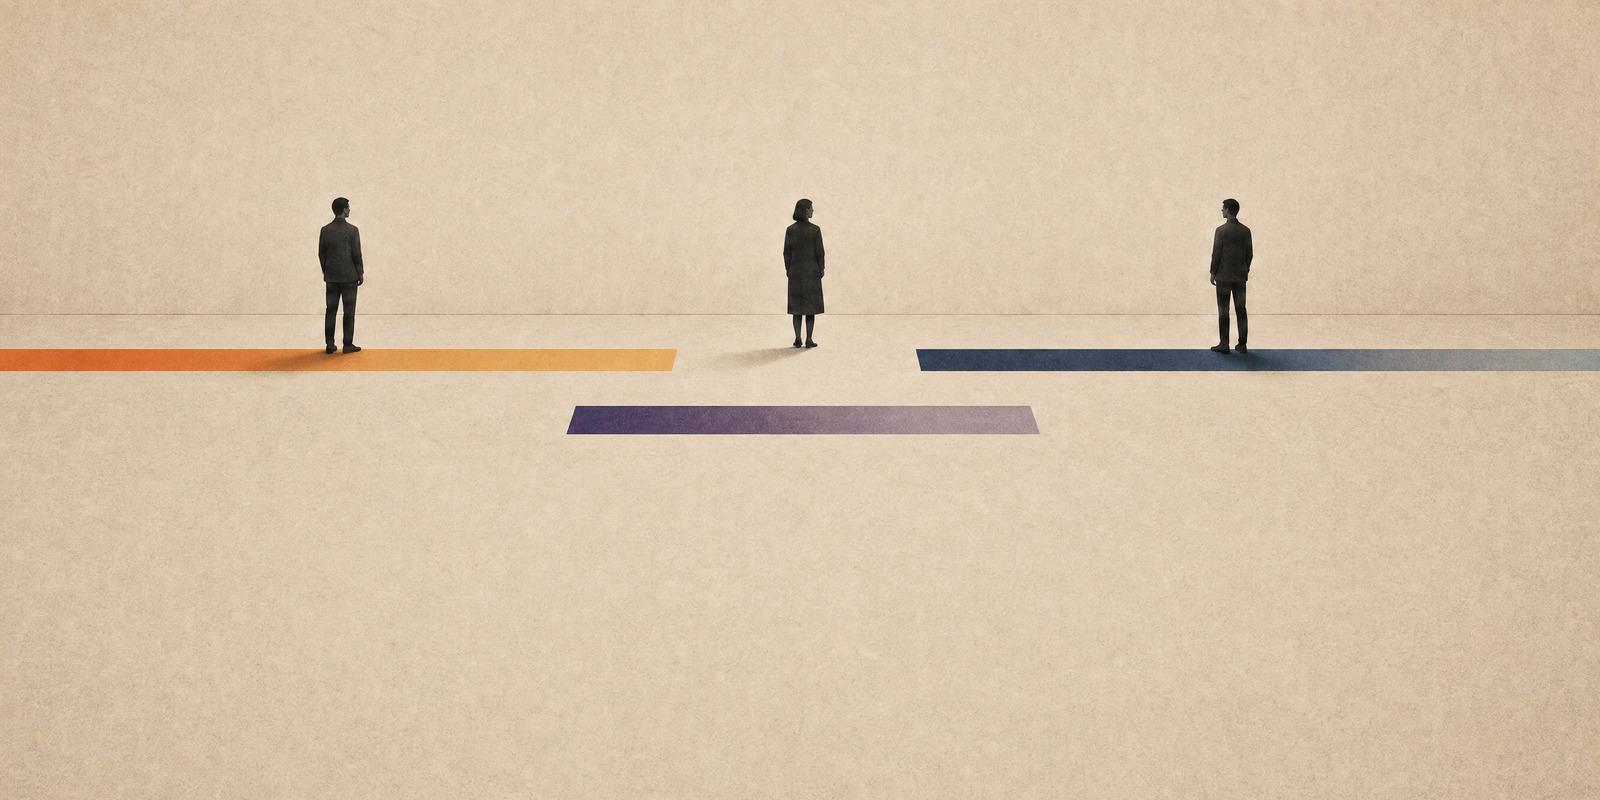
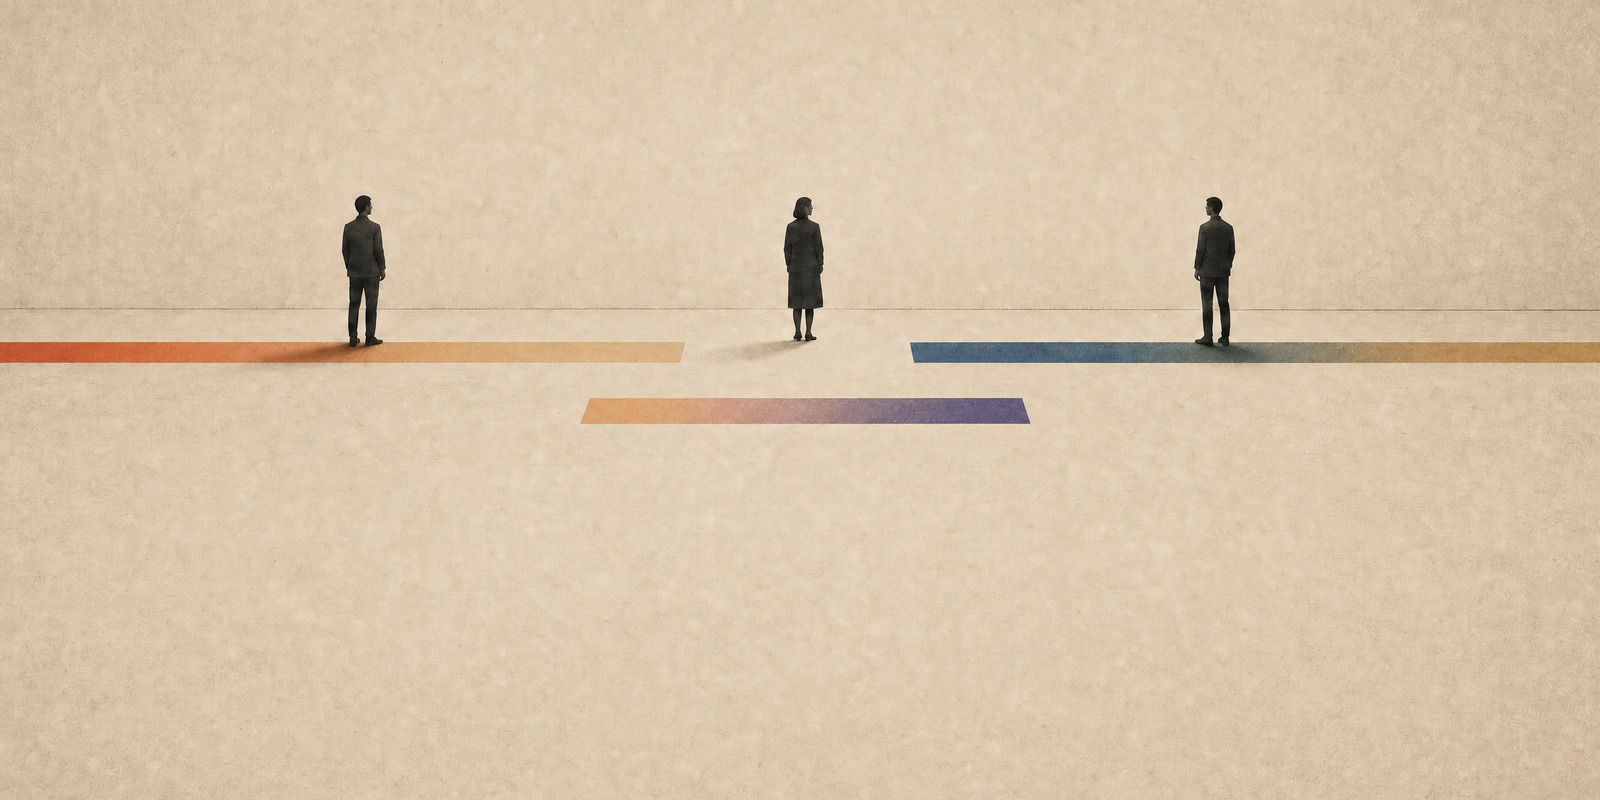
배너 소점을 청록판 수준으로 — 재고 나서야 방향을 알았다
「소점이 미세하게 안 맞다」는 지적에 두 번 고쳤고 한 번은 **더 나빠졌다.**
재기 전에 고치려 든 것이 원인이다.

측정기를 다섯 번 만에 얻었다. 실패 이력을 남긴다 —
 ① 긴 변 기울기 차이 : 이 화풍은 긴 변이 화면과 나란해 늘 0
 ② 채도 문턱값       : 남색·보라가 걸러졌다
 ③ 연결 성분 라벨링   : 같은 문턱값 문제
 ④ 종이색과의 거리    : 모서리 비네팅이 잡혔다(색은 같고 밝기만 낮은 자리)
 ⑤ 색도 + 가로 연결   : 됨. 밝기를 나눠 비네팅을 지우고, 그레이디언트가 중성색을
                      지나며 쪼개진 조각을 161px 로 이어 붙인다

그 측정기가 내 판단이 틀렸다고 말했다. **본인이 맞다고 한 청록판을 재 보니
두 띠의 끝은 수직이었고 원근은 세 번째 조각 하나에만 있었다.** 그 조각의 두 끝이
1007·1697 로 중앙 1344 를 대칭으로 감싼다. 그 판의 「맞음」은 기하학적 정확성이
아니라 **절제**에서 온 것이다.

그래서 앞 회차에 넣은 「엄격한 1점 투시 · 모든 물러나는 변이 한 점을 향한다」는
과교정이었다 — 퍼짐이 56% → 98% 로 나빠졌다. 청록판의 기하를 그대로 기술했다 :
두 띠는 끝을 수직으로 자르고, 가까운 한 조각만 얕은 대칭 사다리꼴로.

  청록판(승인분)  소점 [1007, 1697]              퍼짐  690px (26%)
  직전 배포본     [1128,1547,2661,987,1454]      퍼짐 1674px (62%)
  이 판          [1150, 1028, 1685]             퍼짐  657px (24%)

  액센트 24~52% · 인물 24~52% · 하단 40% 화소 0 · 톤 p95 211.1(가족 211.9)

검사기를 스킬에 등재했다(`scripts/check_vanishing.py`, SKILL.md §5-3).
기준은 가족 평균이 아니라 **본인이 승인한 판**으로 잡았다 — 앞서 제안한 「10% 안」은
승인분 자신이 26% 라 성립하지 않는 숫자였다.

diff --git a/series/life-universe/index.html b/series/life-universe/index.html
@@ -12,14 +12,14 @@
 <meta property="og:title" content="Life Universe · Making of">
 <meta property="og:description" content="앞선 다섯 시리즈 열다섯 편 말미에 붙은 한 줄이 실제로 무엇이었는지, 처음 50일 동안 무엇을 했는지의 중간 보고 세 편.">
 <meta property="og:url" content="https://kiheonshin.github.io/blog-post-assets/series/life-universe/">
-<meta property="og:image" content="https://kiheonshin.github.io/blog-post-assets/series/life-universe/assets/series-banner.jpg?v=20260809d">
-<meta property="og:image:secure_url" content="https://kiheonshin.github.io/blog-post-assets/series/life-universe/assets/series-banner.jpg?v=20260809d">
+<meta property="og:image" content="https://kiheonshin.github.io/blog-post-assets/series/life-universe/assets/series-banner.jpg?v=20260810a">
+<meta property="og:image:secure_url" content="https://kiheonshin.github.io/blog-post-assets/series/life-universe/assets/series-banner.jpg?v=20260810a">
 <meta property="og:image:type" content="image/jpeg">
 <meta property="og:image:width" content="1600">
 <meta property="og:image:height" content="800">
 <meta property="og:image:alt" content="00 · Life Universe · Making of 키 비주얼">
 <meta name="twitter:card" content="summary_large_image">
-<meta name="twitter:image" content="https://kiheonshin.github.io/blog-post-assets/series/life-universe/assets/series-banner.jpg?v=20260809d">
+<meta name="twitter:image" content="https://kiheonshin.github.io/blog-post-assets/series/life-universe/assets/series-banner.jpg?v=20260810a">
 <script async src="https://www.googletagmanager.com/gtag/js?id=G-SQYBGPJFJ4"></script>
 <script>
 window.dataLayer=window.dataLayer||[];

diff --git a/assets/content-manifest.js b/assets/content-manifest.js
@@ -23,7 +23,7 @@ export const contentLibrary = {
       // 커버 세트 설치 [2026-08-09]. 은유는 「이 글을 닫는 한 줄이 세 조각으로
       // 갈리고 각 조각을 한 편씩 맡는다」. 액센트 청록은 앞선 다섯이 쓴
       // 주황·남색·보라와 색상환에서 떨어져 있어 목록에서 이 시리즈만 갈린다.
-      cover: "series/life-universe/assets/series-banner.jpg?v=20260809d",
+      cover: "series/life-universe/assets/series-banner.jpg?v=20260810a",
       coverAlt:
         "다섯 시리즈의 색을 섞은 그레이디언트 띠가 바닥을 가로지르다 두 조각으로 갈리고 세 번째 조각이 그 줄 밖에 따로 놓인 Life Universe 파노라마",
       published: "2026-08-08",
